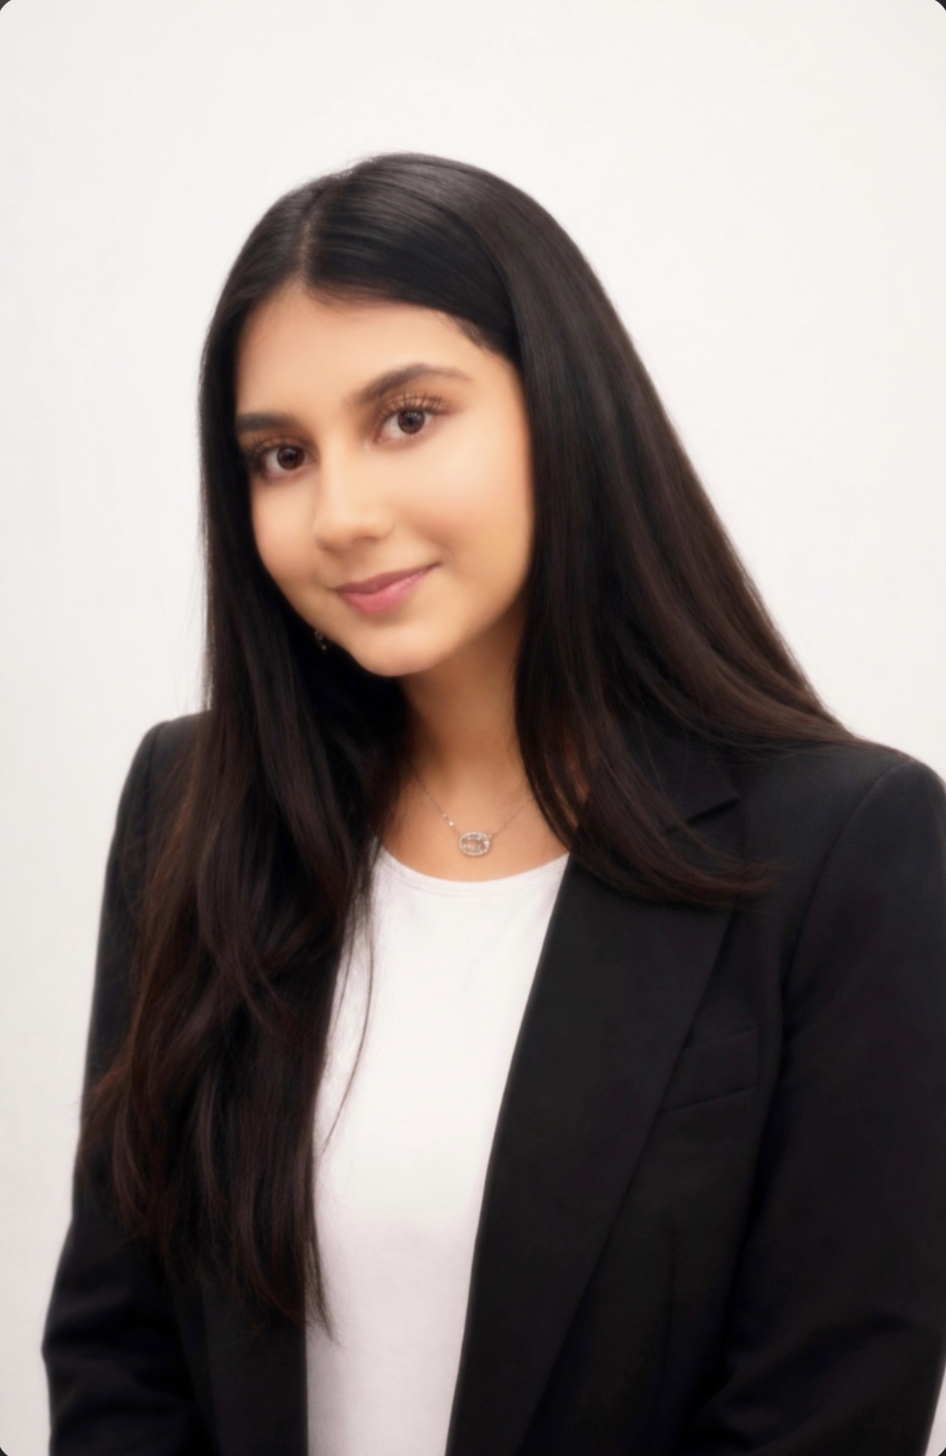
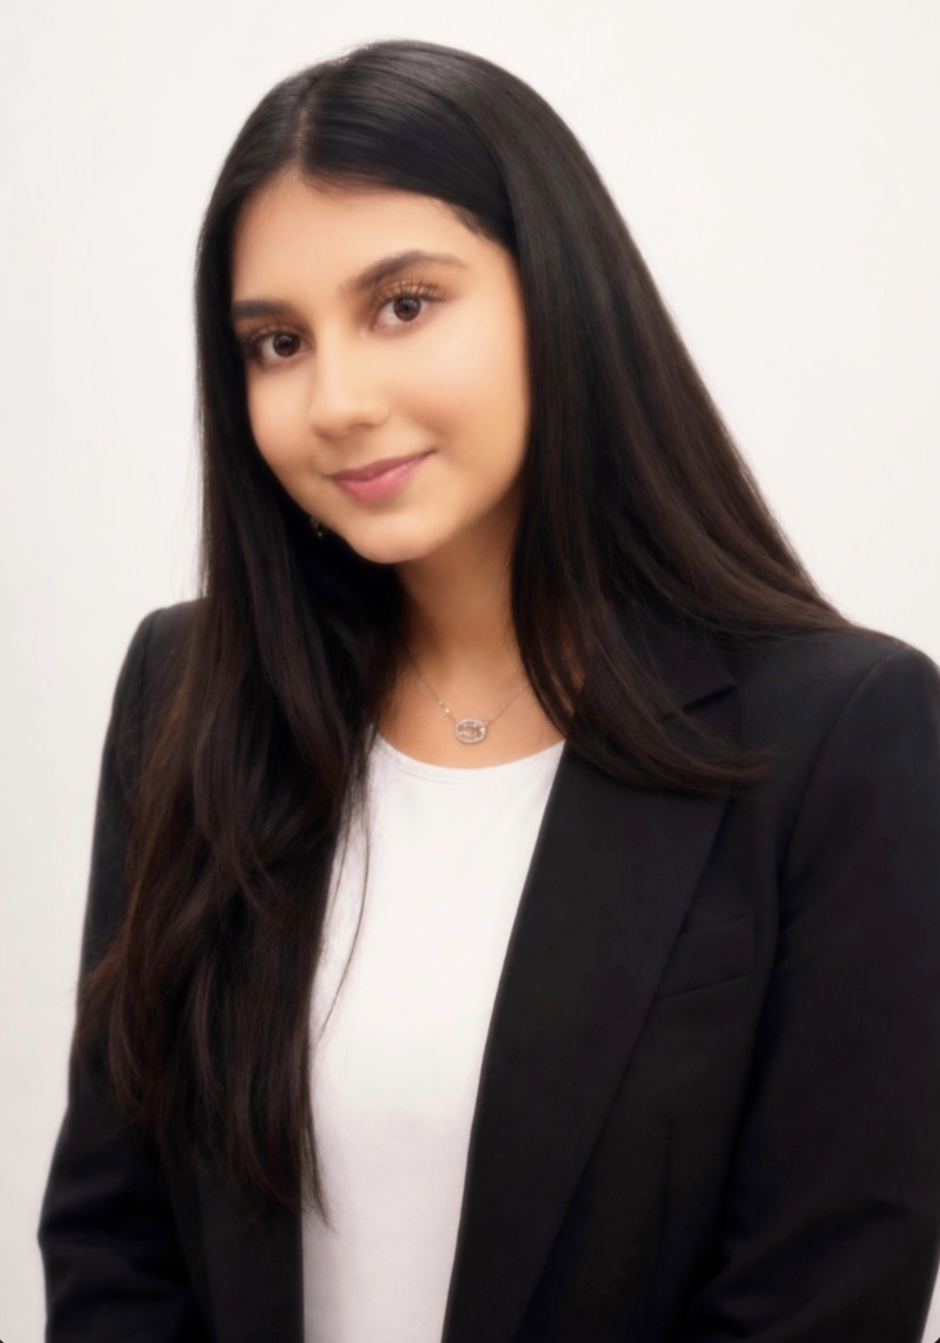
Add Alayna Zafar NCUR feature and refine images

diff --git a/_sass/_news.scss b/_sass/_news.scss
@@ -72,6 +72,21 @@
     text-underline-offset: 2px;
 }
 
+.news-photo--ncur {
+    max-width: 520px;
+    margin-left: auto;
+    margin-right: auto;
+}
+
+.news-photo--ncur img {
+    width: 100%;
+    max-height: 620px;
+    object-fit: cover;
+    object-position: center top;
+    display: block;
+    margin: 0 auto;
+}
+
 
 /* MOBILE */
 

diff --git a/_pages/news.md b/_pages/news.md
@@ -13,7 +13,7 @@ author_profile: true
 
 ### July 2026 — iCARE Lab Website Launched
 
-The official website of the Intelligent Computing for Advanced Research in Healthcare (iCARE) Lab is now live. The website provides information about our research, publications, research team, teaching activities, software, resources, and recent developments.
+The official website of the Intelligent Computing for Advanced Research in Healthcare (iCARE) Lab is now live. The website provides information about our research, publications, research team, teaching activities, professional service, and recent developments.
 
 </div>
 
@@ -85,6 +85,28 @@ The project applied deep learning methods to predict video game user ratings and
 
 <div class="news-entry" markdown="1">
 
+### April 2026 — First-Year Scholar Presents Cancer Classification Research at NCUR 2026
+
+Undergraduate researcher **Alayna Zafar**, a member of the 2025–2026 Kennesaw State University First-Year Scholars research team, presented the project **“Beyond the Baseline: A Comparative Analysis of Vision-Language Models and ResNet50 for Few-Shot and Full-Data Cancer Classification”** at the **National Conference on Undergraduate Research (NCUR 2026)**, held April 13–15, 2026, in Richmond, Virginia.
+
+The project was conducted by **Alex Rojas, Sagar Patil, and Alayna Zafar** under mentorship through the iCARE Lab. The research compared vision-language models and ResNet50 for cancer image classification under few-shot and full-data learning settings. The work was also presented at the **KSU Symposium of Student Scholars**.
+
+<figure class="news-photo news-photo--ncur">
+  <img src="{{ base_path }}/images/Alayna_Zafar_NCUR_2026.png"
+       alt="Alayna Zafar presenting cancer classification research at NCUR 2026">
+
+  <figcaption>
+    Alayna Zafar presenting the First-Year Scholars team’s cancer-classification research at NCUR 2026 in Richmond, Virginia.
+  </figcaption>
+</figure>
+
+Reflecting on her experiences at NCUR and the KSU Symposium, Alayna shared that presenting the research strengthened her ability to communicate complex scientific concepts to diverse audiences, enhanced her confidence as a presenter, and reinforced her interest in combining clinical medicine with scientific innovation.
+
+</div>
+
+
+<div class="news-entry" markdown="1">
+
 ### March 2026 — Research Presented at American Mathematical Society Meeting
 
 Our work, **“Beyond the Baseline: A Comparative Analysis of Vision-Language Models and ResNet50 for Few-Shot and Full-Data Cancer Classification,”** was presented at the **2026 American Mathematical Society Spring Southeastern Sectional Meeting** in Savannah, Georgia.
@@ -93,15 +115,7 @@ The project was conducted with undergraduate researchers **Alex Rojas, Alayna Za
 
 </div>
 
-<div class="news-entry" markdown="1">
 
-### Spring 2026 — Undergraduate Research Presented at Multiple Scholarly Events
-
-Students mentored through the Kennesaw State University First-Year Scholars Program conducted research on artificial intelligence for medical image analysis.
-
-The project was selected for presentation at multiple scholarly events, including the **KSU Symposium of Student Scholars**, **KSU Analytics Day**, the **2026 National Conference on Undergraduate Research**, and the **2026 Spring Southeastern Sectional Meeting of the American Mathematical Society**.
-
-</div>
 
 <div class="news-entry" markdown="1">
 
@@ -113,15 +127,6 @@ The new computing environment supports ongoing work in medical image segmentatio
 
 </div>
 
-<div class="news-entry" markdown="1">
-
-### January 2026 — Undergraduate Research Accepted for Presentation at NCUR 2026
-
-An undergraduate research project I mentored through the **Kennesaw State University First-Year Scholars Program** was accepted for poster presentation at the **National Conference on Undergraduate Research (NCUR) 2026**, held April 13–15, 2026, in Richmond, Virginia.
-
-The accepted project, **“Beyond the Baseline: A Comparative Analysis of Vision-Language Models and ResNet50 for Few-Shot and Full-Data Cancer Classification,”** investigates the use of vision-language models and conventional deep learning approaches for cancer image classification under both limited-data and full-data settings.
-
-</div>
 
 
 ## 2025
